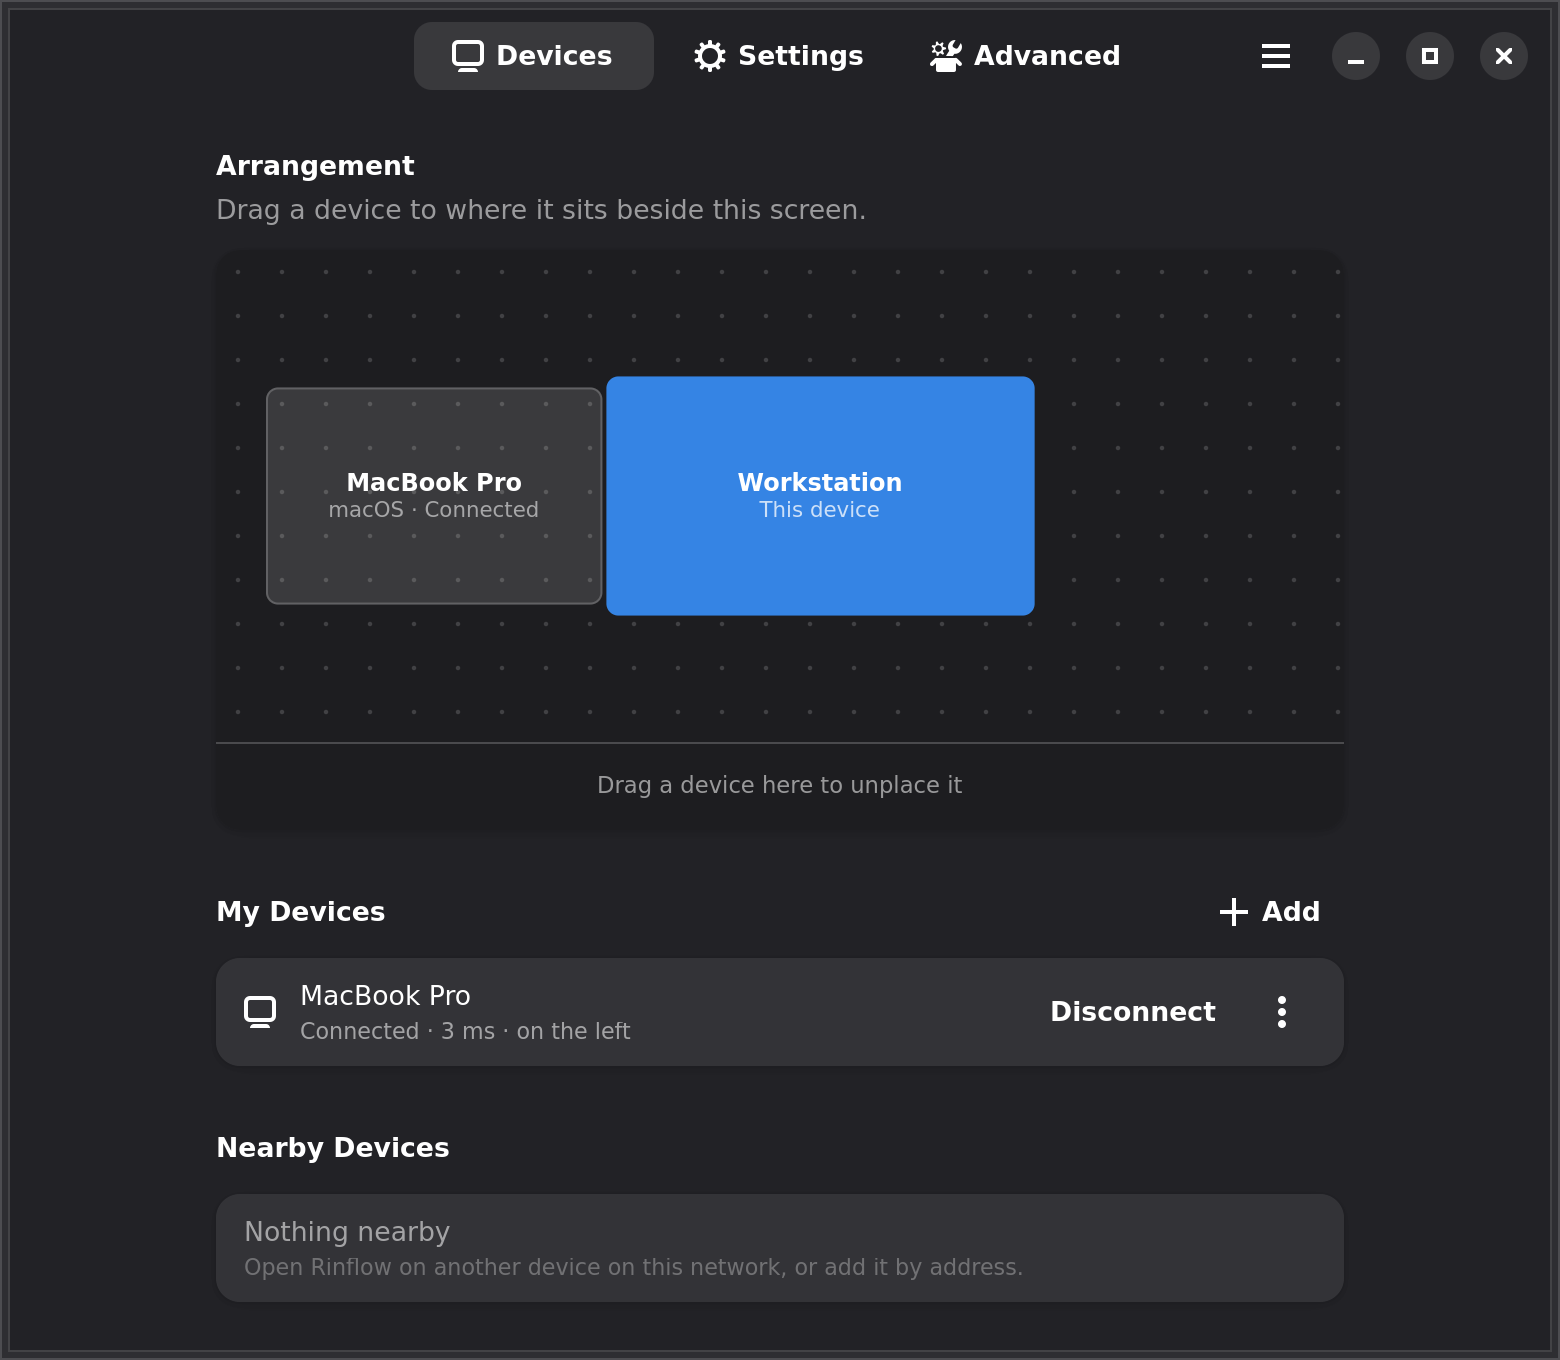
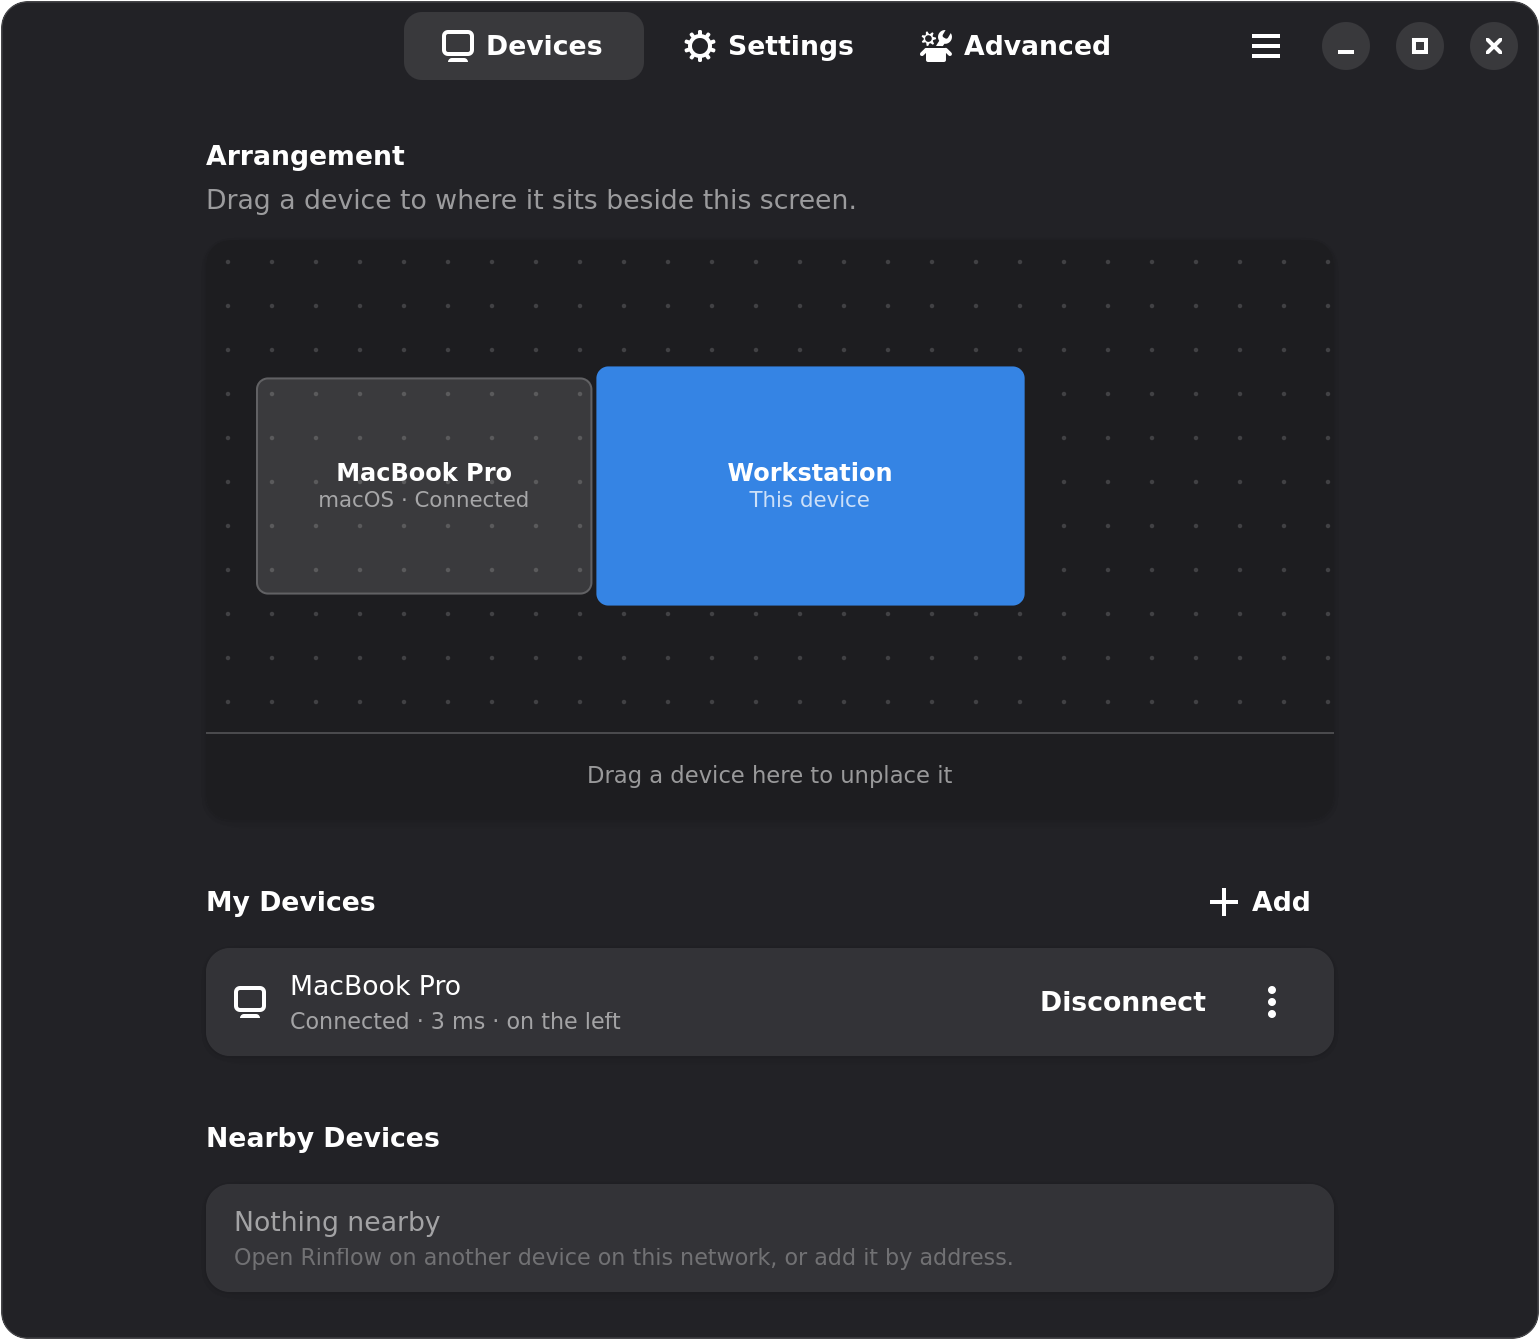
docs: screenshots without the frame GTK draws where there is no compositor
They are cut inside it, with rounded corners and a single hairline.

diff --git a/tests/screenshots.py b/tests/screenshots.py
@@ -11,6 +11,8 @@ from e2e_canvas import FakeAgent, template, LOCAL, MAC
 WINDOW, AGENT, OUT = os.path.abspath(sys.argv[1]), os.path.abspath(sys.argv[2]), os.path.abspath(sys.argv[3])
 # The window's default size, drawn at twice the density.
 SCALE, WIDTH, HEIGHT = 2, 780, 680
+# In pixels of the picture: the frame GTK draws, and the corner radius.
+FRAME, RADIUS = 10, 26
 
 
 def shot(base, language, theme):
@@ -59,7 +61,18 @@ def shot(base, language, theme):
             raise SystemExit("the window did not appear")
         time.sleep(3)
         path = os.path.join(OUT, f"devices-{language}-{theme}.png")
-        subprocess.run(["import", "-window", "root", "-crop", f"{WIDTH * SCALE}x{HEIGHT * SCALE}+0+0", "+repage", path], check=True)
+        # Without a compositor GTK draws the window's shadow area as a
+        # frame of two lines, FRAME pixels deep: cut inside it, then round
+        # the corners as a desktop would and draw one hairline around.
+        w, h = WIDTH * SCALE - 2 * FRAME, HEIGHT * SCALE - 2 * FRAME
+        line = "rgba(255,255,255,0.16)" if theme == "dark" else "rgba(0,0,0,0.14)"
+        shape = f"roundrectangle 1,1 {w - 2},{h - 2} {RADIUS},{RADIUS}"
+        subprocess.run(["import", "-window", "root", "-crop", f"{w}x{h}+{FRAME}+{FRAME}", "+repage", path], check=True)
+        subprocess.run(["convert", path, "-alpha", "set",
+                        "(", "-size", f"{w}x{h}", "xc:none", "-fill", "white", "-draw", shape, ")",
+                        "-compose", "DstIn", "-composite",
+                        "-compose", "Over", "-fill", "none", "-stroke", line, "-strokewidth", "2", "-draw", shape,
+                        path], check=True)
         print(path)
     finally:
         window.terminate()
